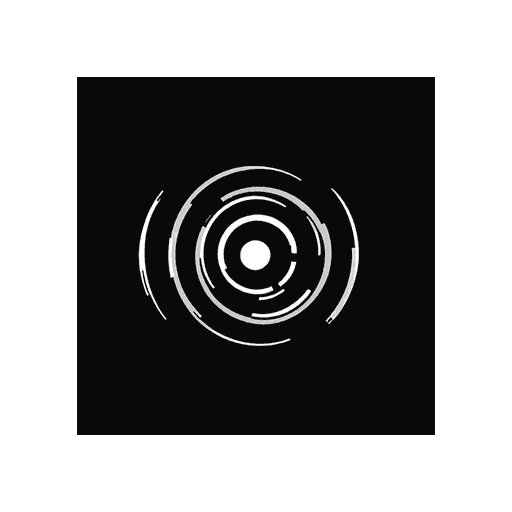
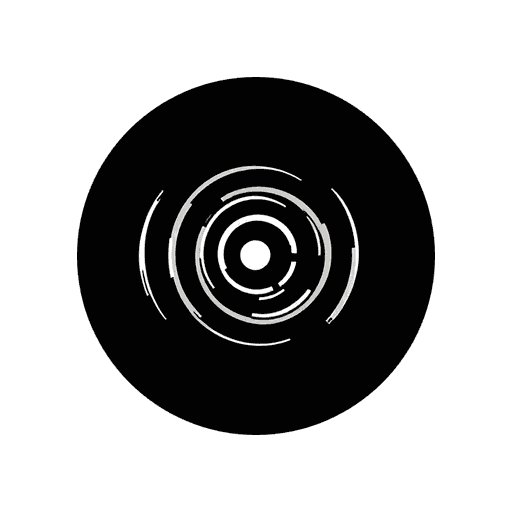
chore(pwa): update assets

diff --git a/pwa-assets.config.ts b/pwa-assets.config.ts
@@ -1,0 +1,9 @@
+import { defineConfig, minimal2023Preset } from '@vite-pwa/assets-generator/config'
+
+export default defineConfig({
+  headLinkOptions: {
+    preset: '2023',
+  },
+  images: ['public/logo.png'],
+  preset: minimal2023Preset,
+})
